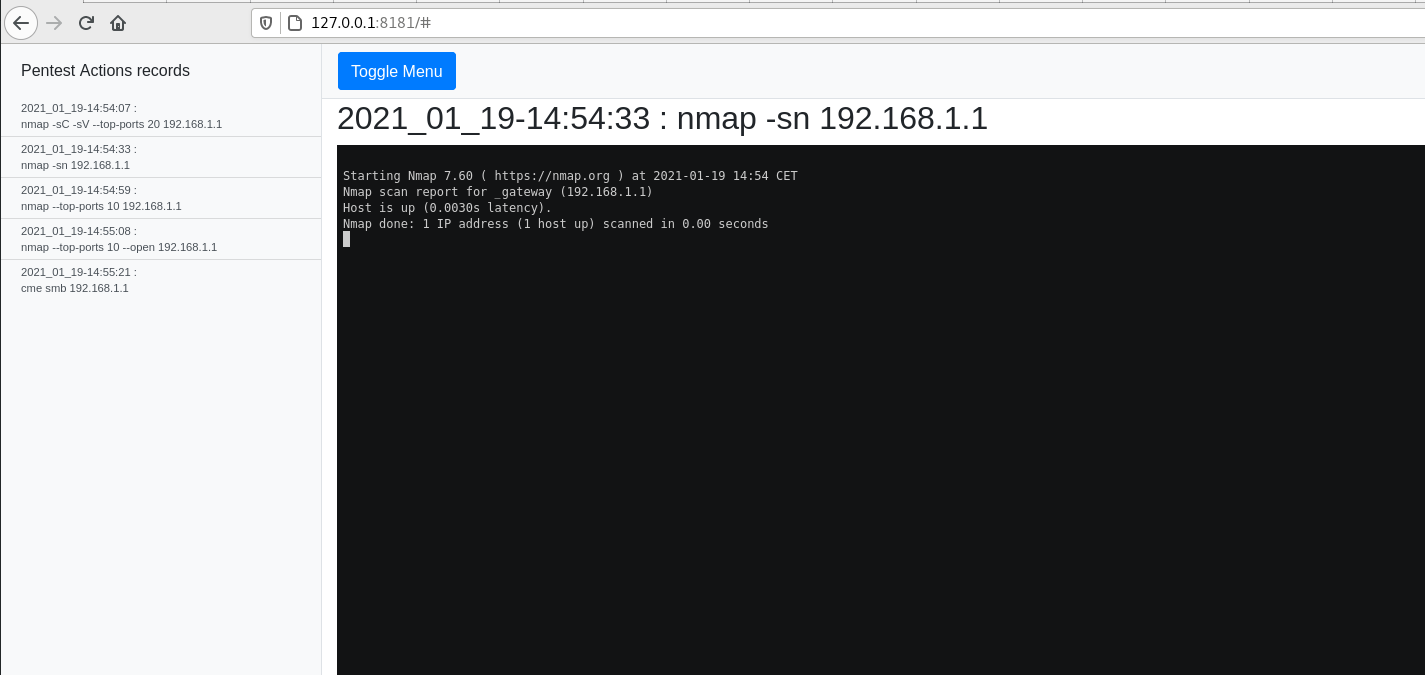
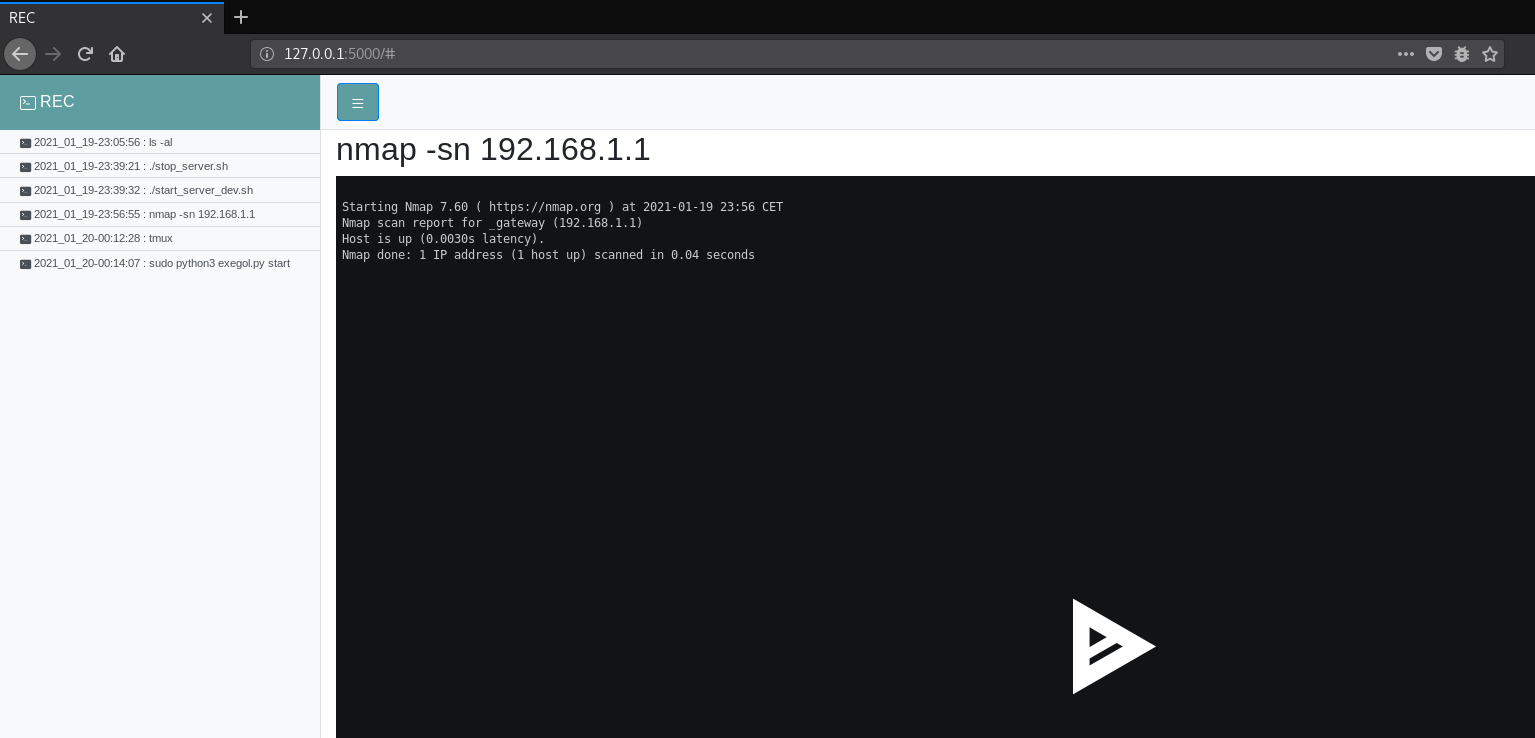
doc

Changed region(s): [[0.0, 0.0, 1.0, 1.0], [0.6793, 0.8089, 0.7719, 0.9333]]

diff --git a/webapp/default.html b/webapp/default.html
@@ -5,7 +5,7 @@
     <meta name="viewport" content="width=device-width, initial-scale=1, shrink-to-fit=no">
     <meta name="description" content="Pentest viewer">
     <meta name="author" content="Mayfly">
-    <title>Pentest records viewer</title>
+    <title>REC</title>
     <!-- Bootstrap core CSS -->
     <link href="static/dist/css/bootstrap.min.css" rel="stylesheet">
     <link rel="stylesheet" type="text/css" href="static/asciinema/asciinema-player.css" />
